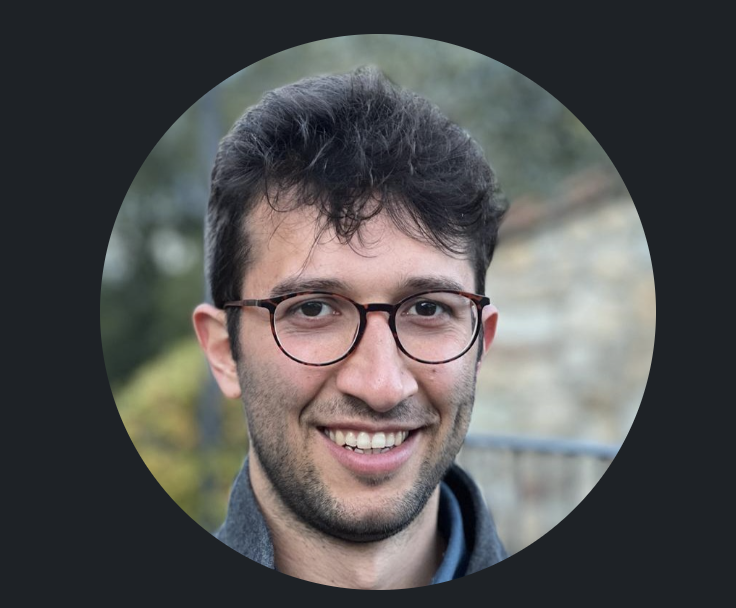
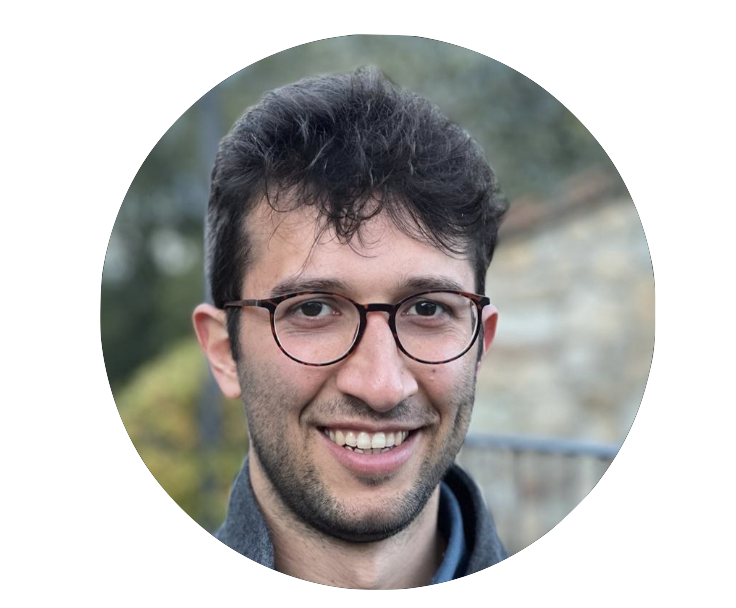
modified profile pic

diff --git a/index.html b/index.html
@@ -31,8 +31,7 @@
         <img src="images/logo.jpg" alt="Logo's picture" class="h-32 mx-auto">
 
         <div class="mt-6 bg-white p-6 rounded-lg shadow-md">
-            <img src="images/title_picture.png" alt="Stefano's picture"
-                class="w-32 h-32 mx-auto rounded-full shadow-md">
+            <img src="images/title_picture.png" alt="Stefano's picture" class=" h-32 mx-auto">
             <p class="mt-2 text-gray-700"
                 data-en="Hello! I'm Stefano, your trusted and reliable property care specialist in Tuscany. I offer flexible, on-demand services to keep your home impeccably maintained, looked after, and ready whenever you need it."
                 data-it="Ciao! Sono Stefano, il tuo specialista affidabile nella cura delle proprietà in Toscana. Offro servizi flessibili e su richiesta per mantenere la tua casa in perfette condizioni, ben curata e pronta ogni volta che ne hai bisogno.">
